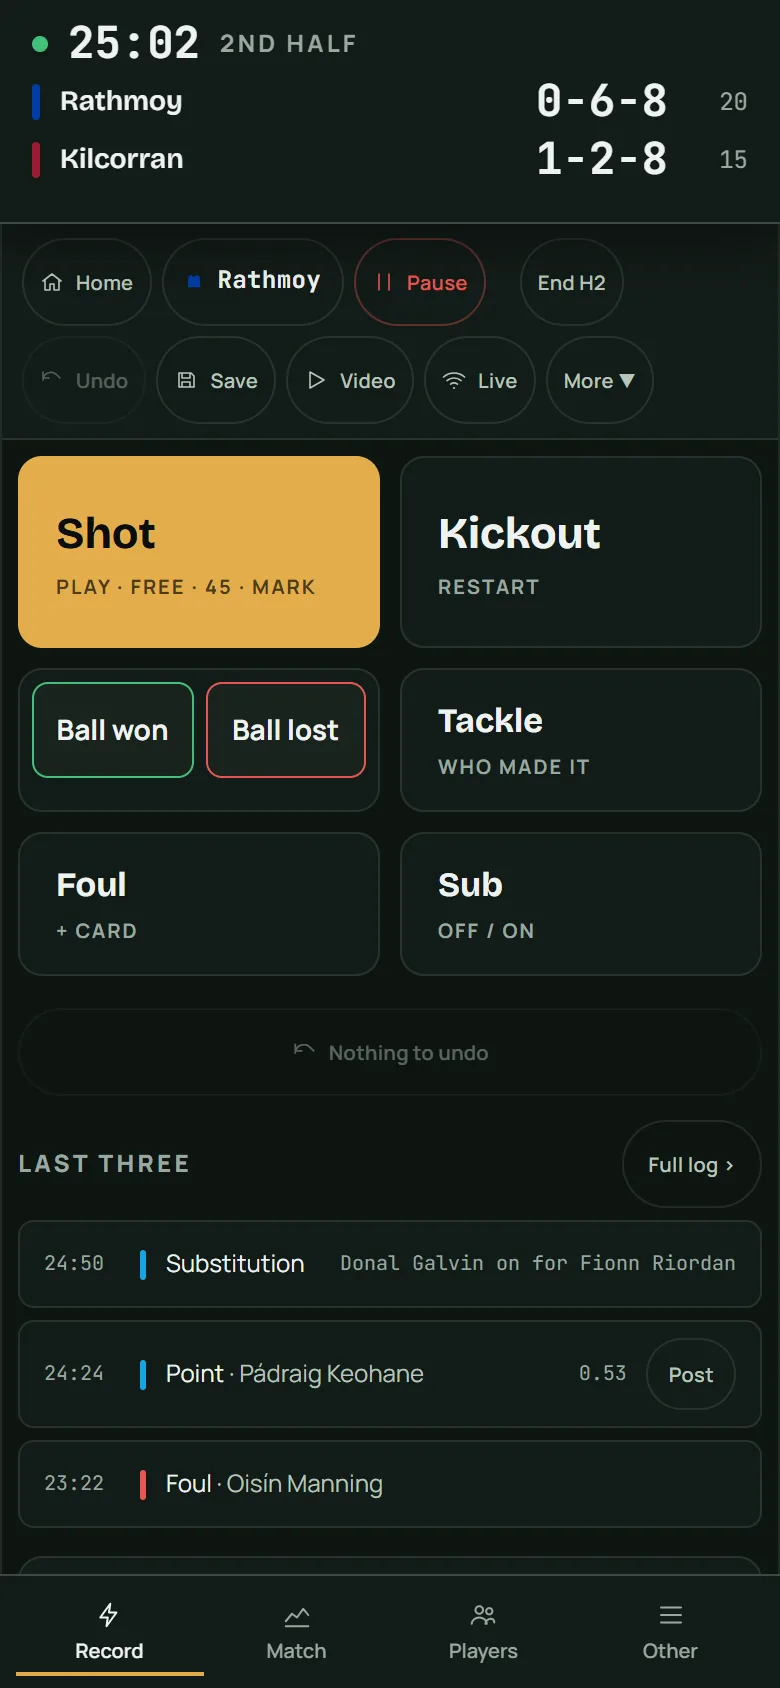
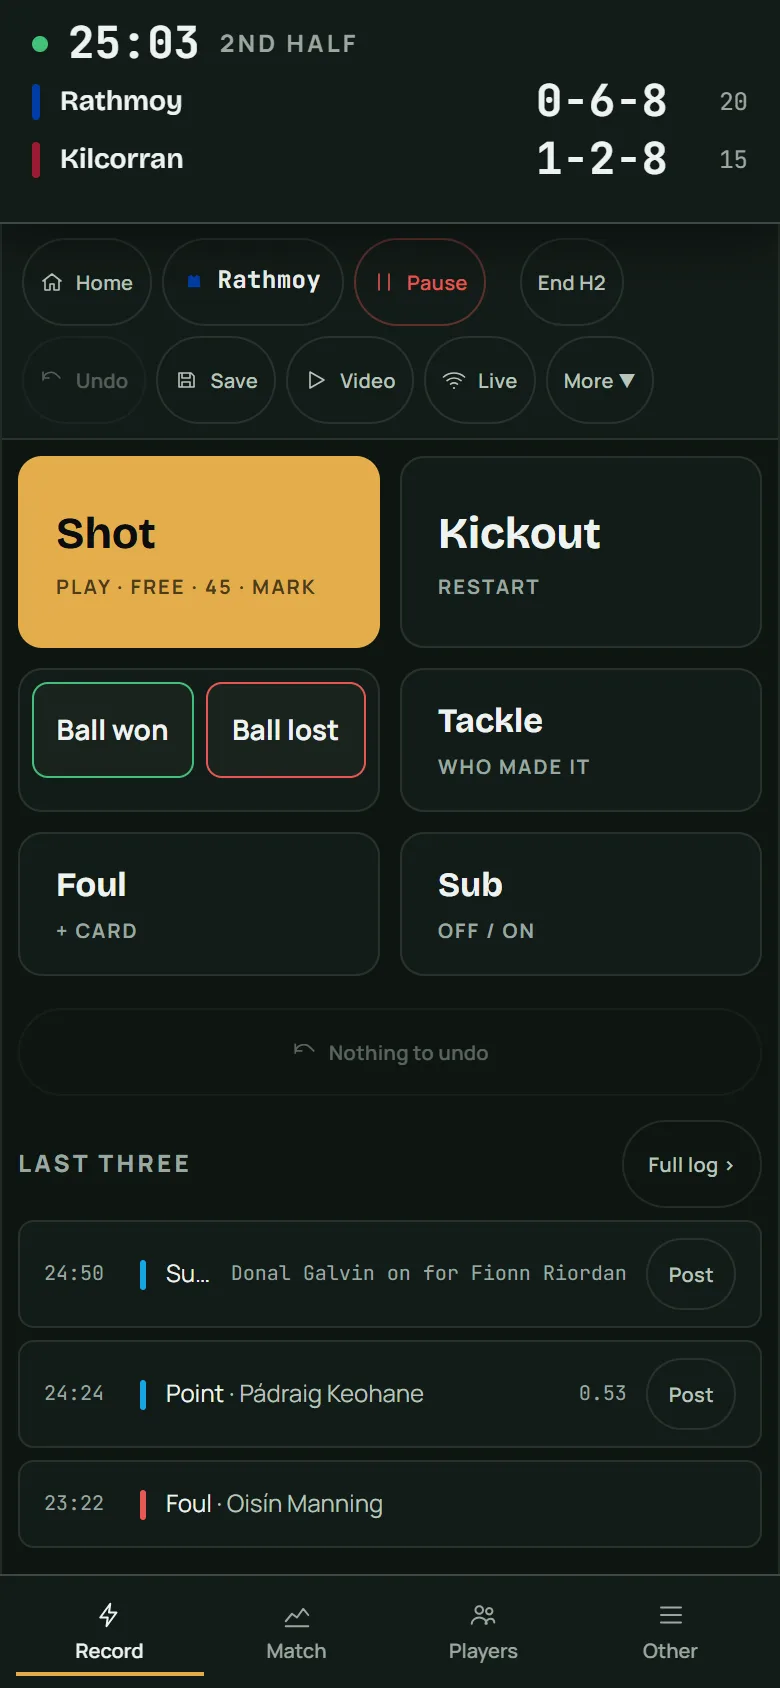
The club's X feed on the home page
A feature block (the team as a picture, a Post on every score, our subs and
black and red cards; nothing posts by itself; only our players named), an FAQ
entry with its structured data, and the phone photo with Post on the sub row.

diff --git a/index.html b/index.html
@@ -68,7 +68,8 @@
         "Kickout analysis",
         "Opposition scouting reports",
         "Season reports and player pages",
-        "Video clips and highlight reels"
+        "Video clips and highlight reels",
+        "The team and live scores posted to the club's X feed"
       ],
       "publisher": {
         "@id": "https://www.culstats.ie/#org"
@@ -122,6 +123,14 @@
           "acceptedAnswer": {
             "@type": "Answer",
             "text": "Pick a plan and carry on — every match you recorded is kept. If you don't, the trial simply stops; nothing is charged, because nothing is billed until you choose a plan."
+          }
+        },
+        {
+          "@type": "Question",
+          "name": "Can it post our team and scores to X?",
+          "acceptedAnswer": {
+            "@type": "Answer",
+            "text": "Yes. Put the club's X account in Cul Stats once. The team goes out as a picture before throw-in, and every score, your subs and any black or red card has a Post button with the post already written. One tap sends it from your phone, from the account signed in there. Cul Stats never signs in to X and never posts by itself."
           }
         },
         {
@@ -238,6 +247,14 @@ section{padding:96px 0}
 .rep .find small{font-family:var(--fm);font-size:11px;letter-spacing:.1em;text-transform:uppercase;color:var(--t3)}
 .rep .find b{font-size:16px}
 .rep .find span{font-size:14px;color:var(--t2)}
+/* The club's feed, drawn plainly: not any network's own screens */
+.xposts{display:grid;gap:10px}
+.xpost{display:grid;grid-template-columns:38px minmax(0,1fr);gap:10px;background:var(--navy-2);border-radius:12px;padding:12px 14px}
+.xpost .av{width:38px;height:38px;border-radius:50%;background:#1f4fa0;color:#f3f6f9;display:grid;place-items:center;font-family:var(--fd);font-weight:800;font-size:13px}
+.xpost .who{font-weight:800;font-size:14px}
+.xpost .who span{font-weight:500;color:var(--t3)}
+.xpost .txt{white-space:pre-wrap;font-size:14px;color:var(--t1);margin-top:2px}
+.xpost .tag{color:var(--home)}
 .clips{display:grid;gap:8px}
 .clip{display:flex;gap:12px;align-items:center;background:var(--navy-2);border-radius:10px;padding:10px 12px;font-size:14px}
 .clip .play{width:30px;height:30px;border-radius:50%;background:var(--gold);color:#1a1405;display:grid;place-items:center;font-size:12px;flex:none}
@@ -548,6 +565,38 @@ footer a:hover{color:var(--t1)}
         <div class="legend" style="margin-top:14px"><span><i class="dot" style="background:var(--score)"></i>Live: 2 watching the match now</span></div>
       </div>
     </div>
+
+    <div class="feature">
+      <div class="copy">
+        <div class="eyebrow">Your club's X feed</div>
+        <h3>The team and the scores, posted as they happen.</h3>
+        <p>Put your club's X account in Cul Stats once. Before throw-in, post the team: the fifteen in their lines and the subs, as a picture. During the match, every score, every sub you make and any black or red card has a Post button, with the post already written: who, the minute, the score as it stands, the competition and your hashtags. One tap sends it from your phone.</p>
+        <ul>
+          <li>Nothing posts by itself, and Cul Stats never signs in to X: you send every post, from the account on your phone</li>
+          <li>Only your own players are named; the other side's scores are counted, never credited</li>
+          <li>Half time and full time in one tap, and every post fits in 280 characters</li>
+        </ul>
+      </div>
+      <div class="card" aria-hidden="true">
+        <div class="ch"><b>The club's feed</b><span>Rathmoy v Kilcorran</span></div>
+        <div class="xposts">
+          <div class="xpost"><div class="av">RG</div><div><div class="who">Rathmoy GAA <span>@RathmoyGAA</span></div>
+            <div class="txt">Point, Rathmoy — Rory Tobin · H1 24'
+Rathmoy 0-1-6 (8)  Kilcorran 1-0-4 (7)
+County SFC, Round 2
+<span class="tag">#UpTheRath #culstats</span></div></div></div>
+          <div class="xpost"><div class="av">RG</div><div><div class="who">Rathmoy GAA <span>@RathmoyGAA</span></div>
+            <div class="txt">Substitution, Rathmoy: Donal Galvin on for Fionn Riordan · H2 12'
+Rathmoy 0-4-9 (17)  Kilcorran 1-1-7 (12)
+County SFC, Round 2
+<span class="tag">#UpTheRath #culstats</span></div></div></div>
+          <div class="xpost"><div class="av">RG</div><div><div class="who">Rathmoy GAA <span>@RathmoyGAA</span></div>
+            <div class="txt">Full time: Rathmoy 0-6-10 (22)  Kilcorran 1-2-8 (15)
+County SFC, Round 2
+<span class="tag">#UpTheRath #culstats</span></div></div></div>
+        </div>
+      </div>
+    </div>
   </div>
 </section>
 
@@ -773,6 +822,7 @@ footer a:hover{color:var(--t1)}
       <details><summary>Who can see our data?</summary><p>Only people your club gives access to. Analysts log in; managers and players view with your club's season code. Your opposition cannot see it.</p></details>
       <details><summary>Do we have to upload our match video?</summary><p>No. Paste the link to your Veo, YouTube or OneDrive video, or pick the file on your laptop. The video stays where it is.</p></details>
       <details><summary>What happens when the trial ends?</summary><p>Pick a plan and carry on — every match you recorded is kept. If you don't, the trial simply stops; nothing is charged, because nothing is billed until you choose a plan.</p></details>
+      <details><summary>Can it post our team and scores to X?</summary><p>Yes. Put the club's X account in Cul Stats once. The team goes out as a picture before throw-in, and every score, your subs and any black or red card has a Post button with the post already written. One tap sends it from your phone, from the account signed in there. Cul Stats never signs in to X and never posts by itself.</p></details>
       <details><summary>Can I get my data out?</summary><p>Yes. Every match exports to CSV and Excel, every report to PDF, and there's a Download everything file for the whole club.</p></details>
     </div>
   </div>
